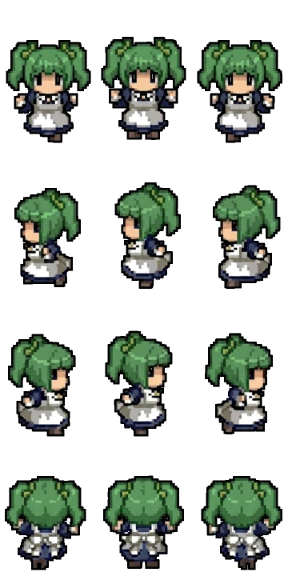
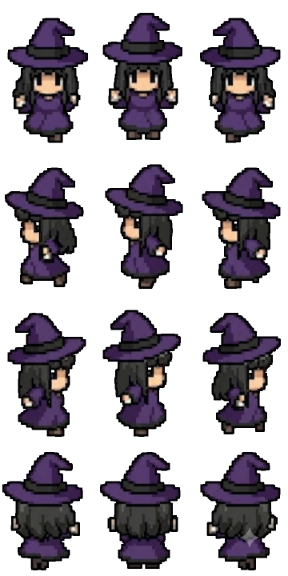
[feat/repo2d] - Đủ 14 xác: thiên thần vào Seraph, phù thuỷ vào Oracle
Chủ dự án bổ sung bốn charset, thành 15 tệp cho 14 mã. Đủ cả bộ, không còn nhân
vật nào rơi về hình khối cũ.

Hai chỗ gán theo HÌNH chứ không theo thứ tự tệp, vì bộ hình tự nói ra vai:
- con có hào quang và đôi cánh vào `tuyet` — Seraph, "Bất Tử".
- con đội mũ phù thuỷ vào `khoi` — Oracle, "Mắt Thần".
Mười hai mã còn lại giữ thứ tự tệp. Dư một tấm (đôi bím xanh lá); muốn hoán ai
với ai thì chỉ cần đổi tên tệp trong art/crew, engine đọc theo tên.

CREW_IDS giờ khớp đúng thư mục. Danh sách đó là danh sách TẢI VỀ, nên một tên
thừa là một request 404 thật và bộ kiểm đếm nó thành lỗi console — đúng như nó nên.

repo 197, stuck 71 — xanh, không request nào hỏng.

Claude-Session: https://claude.ai/code/session_01AS23KDM2CBtFoAaNPHU5Nc

diff --git a/games/repo2d/sprites.js b/games/repo2d/sprites.js
@@ -50,11 +50,11 @@
   // Đội là cùng một người: `bao`. Trước đây hai mã trỏ vào hai tệp khác nhau, nên cùng một nhân
   // vật ra hai mặt tuỳ bản đang chơi. Xem crewIdOf.
   //
-  // Bộ hình có 11 xác; Biệt Đội cần 14 nhân vật, và `bao` gánh luôn vai chính, nên còn THIẾU BA:
-  // van (Frost), hai (Magnet), tuyet (Seraph) — cả ba là nhân vật 5 sao. Chúng vẫn chơi được,
-  // chỉ rơi về hình khối cũ cho tới khi có tệp. Mỗi tên ở đây không có tệp là một request 404
-  // thật, nên danh sách này chỉ liệt kê cái đang có.
-  const CREW_IDS = ['bao', 'hue', 'tam', 'ky', 'linh', 'dung', 'mai', 'phuc', 'son', 'nga', 'khoi'];
+  // ĐỦ CẢ 14. Biệt Đội có 14 nhân vật và `bao` gánh luôn vai chính của Ca Trực Đêm, nên bộ này
+  // là đủ, không còn xác nào rơi về hình khối cũ. Mỗi tên ở đây không có tệp tương ứng là một
+  // request 404 thật, nên danh sách phải khớp đúng thư mục art/crew.
+  const CREW_IDS = ['bao', 'hue', 'tam', 'ky', 'linh', 'dung', 'mai', 'phuc', 'son',
+                    'nga', 'khoi', 'van', 'hai', 'tuyet'];
 
   // Ba con bot của Ca Trực Đêm ("Tổ 2/3/4") mượn ba xác, thứ tự cố định để cùng một con bot
   // luôn ra cùng một mặt trong mọi ván. KHÔNG được có `bao` ở đây: bao giờ cũng là mặt của

diff --git a/games/repo-squad/index.html b/games/repo-squad/index.html
@@ -876,15 +876,15 @@
 <script src="../../js/save-sync.js"></script>
 
 <!-- BỘ MÁY: dùng CHUNG với games/repo2d. Không có bản sao thứ hai của luật chơi. -->
-<script src="../repo2d/sprites.js?v=20260831f"></script>
-<script src="../repo2d/game.js?v=20260831f"></script>
-<script src="../repo2d/bot.js?v=20260831f"></script>
+<script src="../repo2d/sprites.js?v=20260831g"></script>
+<script src="../repo2d/game.js?v=20260831g"></script>
+<script src="../repo2d/bot.js?v=20260831g"></script>
 
 <!-- TẦNG META của Biệt Đội: gacha, trang bị, tiến hoá, tổ năm người, kỹ năng -->
-<script src="data/content.js?v=20260831f"></script>
-<script src="js/meta.js?v=20260831f"></script>
-<script src="js/ui.js?v=20260831f"></script>
-<script src="js/squad.js?v=20260831f"></script>
+<script src="data/content.js?v=20260831g"></script>
+<script src="js/meta.js?v=20260831g"></script>
+<script src="js/ui.js?v=20260831g"></script>
+<script src="js/squad.js?v=20260831g"></script>
 
 <script>
   window.__boot && window.__boot();          // bộ máy dựng khung, gắn phím, gắn chạm

diff --git a/games/repo2d/game.js b/games/repo2d/game.js
@@ -8956,7 +8956,7 @@ function drawMinimap(c, hud){
 // Trang html khai `game.js?v=...`, nen neu HTML moi thi JS chac chan moi. Cai co the cu la
 // chinh TRANG HTML. So DAU BUILD trong tep nay voi dau `?v=` tren the <script> la biet ngay:
 // hai so khac nhau nghia la trinh duyet dang chay mot to HTML cu.
-const BUILD = '20260831f';
+const BUILD = '20260831g';
 function el(id){ return document.getElementById(id); }
 let veilShownAt = -1e9, veilBornInTouch = false;
 const VEIL_CLICK_GRACE = 900;      // ms: cửa sổ sự kiện chuột "tương thích" của một cú chạm

diff --git a/games/repo2d/index.html b/games/repo2d/index.html
@@ -370,9 +370,9 @@
 })();
 </script>
 
-<script src="sprites.js?v=20260831f"></script>
-<script src="game.js?v=20260831f"></script>
-<script src="bot.js?v=20260831f"></script>
+<script src="sprites.js?v=20260831g"></script>
+<script src="game.js?v=20260831g"></script>
+<script src="bot.js?v=20260831g"></script>
 <script>window.__boot && window.__boot();</script>
 <script>
 // Doc dau build TU HAI PHIA roi so:
